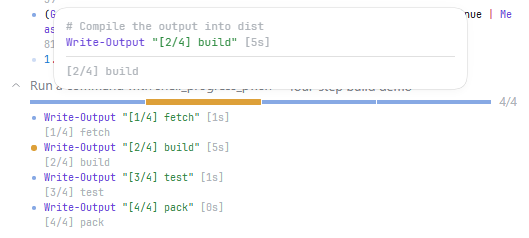
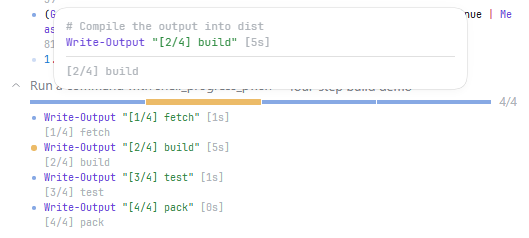
fix(ui): retune the bar's warning colours
The two warn states now have literals of their own — slow `#ffb942`, overdue `#f96c6c` —
instead of the theme's semantic aliases. The aliases made the same state a different weight
depending on the theme: the light theme's error red resolves to a deep `#ec1313` while the
dark theme's is a brighter `#f25a5a`, so the bar was twice as loud on a white card as on a
dark one, while the on-time blue beside it is a static colour and never changed. Literals
put the two warning states on the same footing as the blue: one value, both themes.

The values were tuned on the rendered bar rather than picked from a palette: they are seen
through `saturate(0.7)` and only 4px tall, so a token that looks right as a swatch can read
either muddy or alarming as a rule. The new amber keeps the "this step is taking a while"
reading without the old token's brown weight, and the new coral says "this one went long"
without the stop-sign alarm of a semantic error red.

The blue is unchanged (`--dsw-static-deepseek-400`, `#7aaaff`). Because the segment, the
step-list dot and the single-fill bar all read `--step-state-*`, all three follow the new
values with no other change.

Verified: typecheck, build and the suite at 396 tests; the browser suite measured the slow
step's dot and segment at `rgb(255, 185, 66)` (the new amber), confirmed the dot still
equals its segment's colour, and reported the palette still painted at `saturate(0.7)`.
[…]

Changed region(s): [[0.2722, 0.4118, 0.5142, 0.4412], [0.0605, 0.6176, 0.0907, 0.6471]]

diff --git a/src/client/Row.module.css b/src/client/Row.module.css
@@ -61,12 +61,23 @@
    * bar's own pending alpha on purpose, because the two alphas are not comparable numbers: this
    * marker's base colour is the far stronger tertiary text grey, the bar's is the skeleton grey. */
   --step-alpha-pending-dot: 0.3;
-  --step-state-slow: var(--dsw-alias-state-warn-primary);
-  --step-state-error: var(--dsw-alias-state-error-primary);
+  --step-state-slow: #ffb942;
+  --step-state-error: #f96c6c;
+  /* The two WARN colours are literals, not theme aliases, and mean the same thing in both
+   * themes. They used to be `--dsw-alias-state-warn-primary` (amber, #f59e0b) and
+   * `--dsw-alias-state-error-primary` (a deep red in light, #ec1313, and a brighter one in
+   * dark, #f25a5a): the alias pair made the same state two different weights depending on
+   * the theme — the light theme's red was twice as heavy as the dark one's — while the
+   * blue above is static. A lighter amber and a softer coral put both warning states on the
+   * same footing as the blue, leave the bar readable at its painted 4px, and keep the card
+   * from shouting beside the transcript's own quiet type. Tuned against the rendered bar,
+   * not picked from a palette: #ffb942 at 0.7 saturation reads as amber without the old
+   * token's brown weight, and #f96c6c reads as "this step went long" without the alarm of a
+   * semantic error red. */
   /* How much of that palette's saturation is painted. A bar segment is a solid block of
    * colour — only 4px tall, but the loudest thing in the card — and at full strength the
-   * theme's semantic green, amber and red shout next to the transcript's own quiet text.
-   * Read it down to 0.7 and the states still read as green/amber/red, just calmer.
+   * warning amber and red shout next to the transcript's own quiet text. Read it down to
+   * 0.7 and the states still read as amber/red, just calmer.
    *
    * Declared ONCE, here with the colours, and read by the segment, the dot AND the
    * single-fill bar: the dot and its segment have to stay the same colour (that is what
